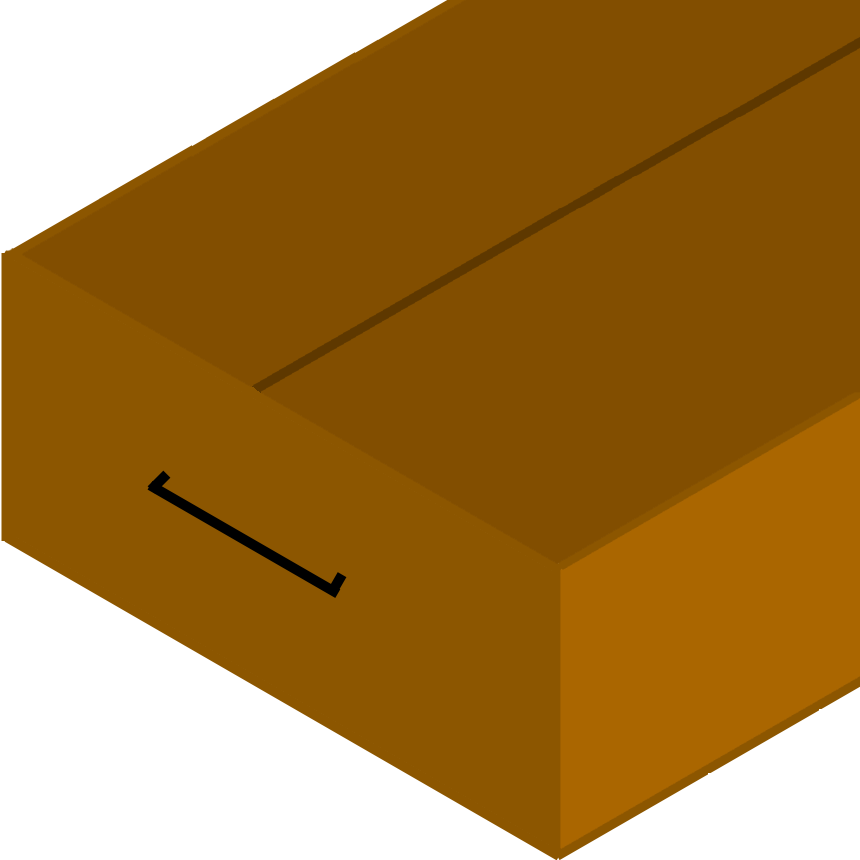
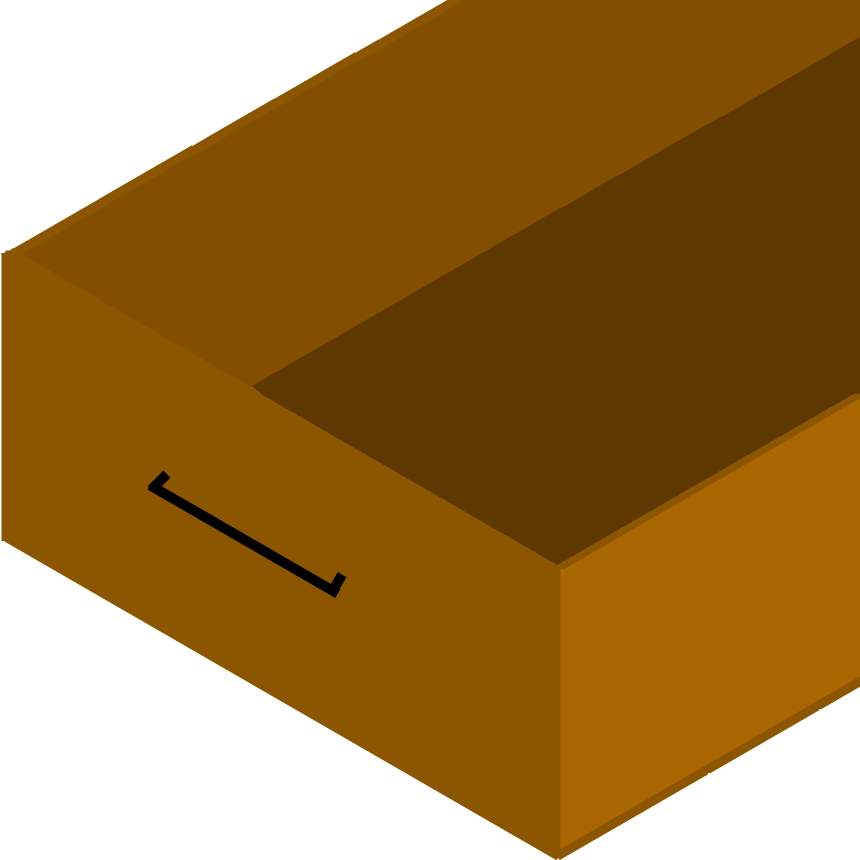
Add files via upload

Changed region(s): [[0.3023, 0.0302, 1.0, 0.6651]]

diff --git a/main.cpp b/main.cpp
@@ -46,10 +46,16 @@ struct Drawer
         
         for(int i = 10; i > 0; i--)
         {
-            DrawTextureEx(drawerPart, vec2(x + rectSize.x * 0.2f * i, (x-rectSize.x * 0.2f * i)/1.75f + y), 0, scale, WHITE);
+            vec2 pos = vec2(x + rectSize.x * 0.2f * i, (x-rectSize.x * 0.2f * i)/1.75f + y);
+            DrawTextureEx(drawer, pos, 0, scale, WHITE);
+            if(gridPos.y == 0)
+                DrawTextureEx(drawerPart, pos, 0, scale, WHITE);
+
         }   
         x = gridPos.x * rectSize.x * 0.65f;
         DrawTextureEx(drawer, vec2(x, x/1.75f + y), 0, scale, WHITE);
+        if(gridPos.y == 0)
+            DrawTextureEx(drawerPart, vec2(x, x/1.75f), 0, scale, WHITE);
     }
     vec2 rectSize = vec2(200, 200);
     string artist = "";
@@ -57,6 +63,7 @@ struct Drawer
 };
 
 const int PROGRESS_PRECISION = 20;
+const float MOVE_SPEED = 3.f;
 
 int main()
 {
@@ -140,29 +147,35 @@ int main()
         a++;
     }
 
-
+    sort(drawers.begin(), drawers.end(), [](auto& d1, auto& d2){return (uint8_t)d1.artist[0] < (uint8_t)d2.artist[0];});
     for(auto& drawer: drawers)
     {
         cout << drawer.artist << "'s drawer:" << endl;
-        for(auto& album : drawer.albums){
+        /*for(auto& album : drawer.albums){
             cout << "   " << album.name <<"'s tracks:" <<endl;
             for(auto& track: album.tracks)
             {
                 cout << "       " << track.name << endl;
             }
 
-        }
+        }*/
     }
         
+    vec2 pos = vec2(0, 0);
+    vec2 openedPos = vec2(0, 0);
+    bool opened = false;///TODO implement opening drawer on click
+    float dt = 1.f / 60.f;
     while(!WindowShouldClose())
     {
         BeginDrawing();
         ClearBackground(BLACK);
         int ratio = floor(drawers.size()/3.f);
+        if(IsKeyDown(KEY_LEFT)) pos.x -= MOVE_SPEED * dt;
+        else if(IsKeyDown(KEY_RIGHT)) pos.x += MOVE_SPEED * dt;
         for(int y = 3; y >= 0; y--)
         for(int i = 0; i < ratio; i++)
         {
-            drawers[i].draw(vec2(i, y+1), drawerTex, drawerPartTex);
+            drawers[i].draw(vec2(i+pos.x, y), drawerTex, drawerPartTex);
         }
         EndDrawing();
     }
